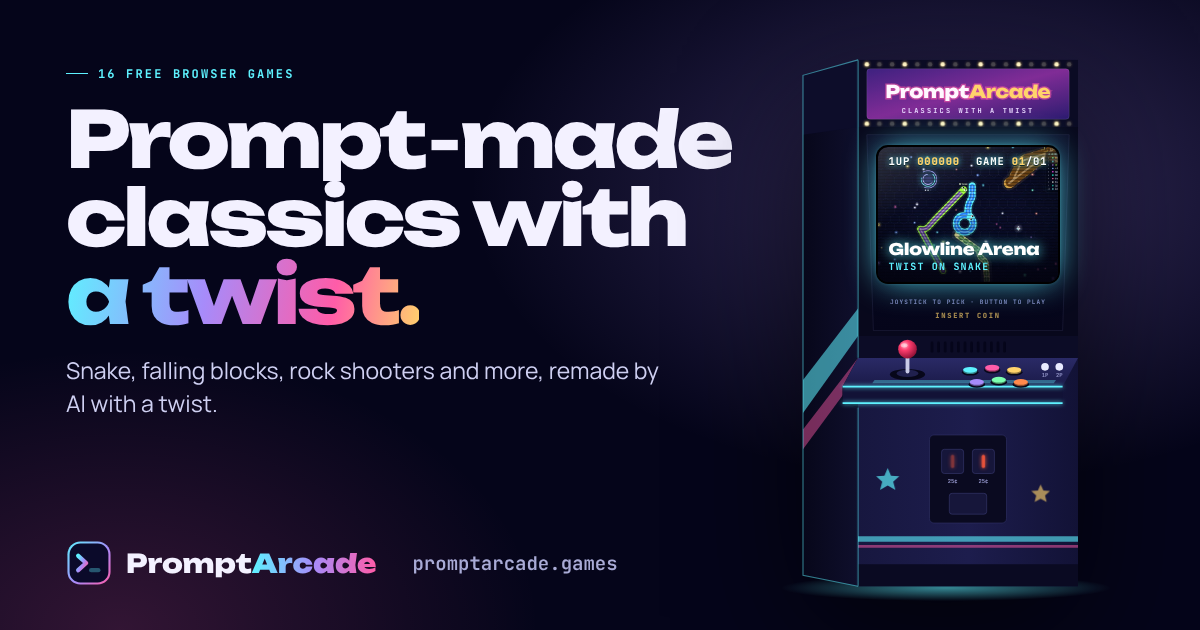
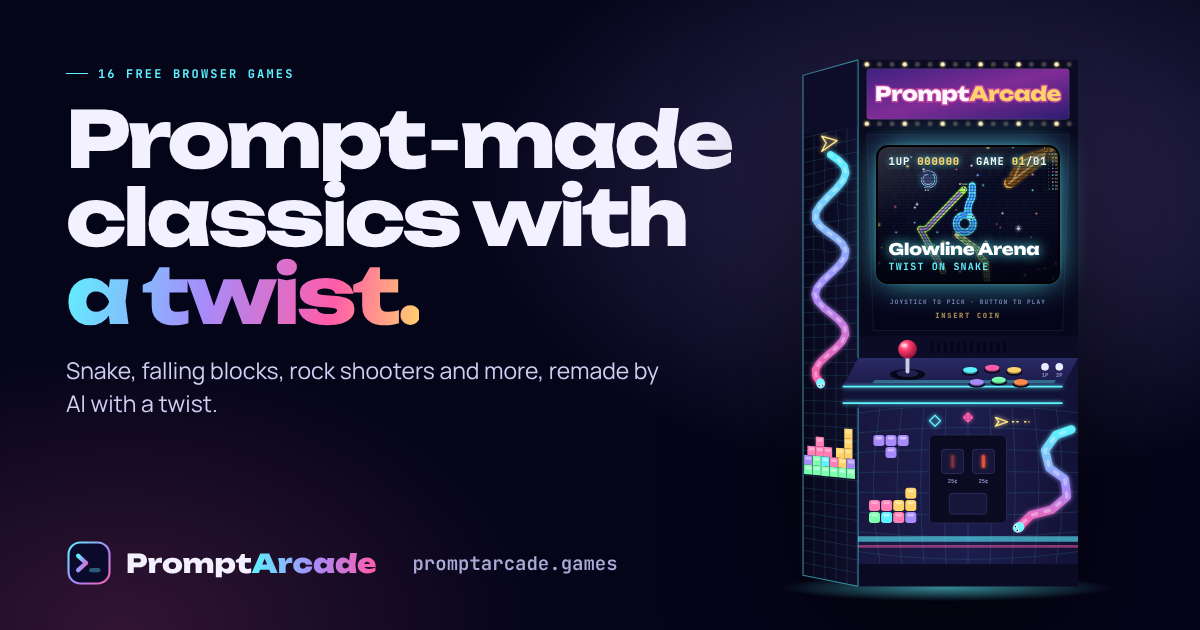
Cabinet: drop the marquee subtitle, add game art to the side and lower panel
Glowline Arena snakes, Block Bloom gems and Gridstorm's warped grid, ship and enemies.

Claude-Session: https://claude.ai/code/session_01ULzD1Fq67nhdKZeWie6Mtf

Changed region(s): [[0.6475, 0.2111, 0.7708, 0.8444], [0.7092, 0.1206, 0.8942, 0.181], [0.7708, 0.6333, 0.8942, 0.8444]]

diff --git a/src/assets/site.css b/src/assets/site.css
@@ -141,9 +141,11 @@ button{font:inherit;color:inherit}
 .cab-svg .acc-stop{stop-color:var(--a)}
 .cab-svg .scr-glow{fill:var(--a);opacity:.5;transition:fill .6s}
 .cab-svg .mq-panel{filter:brightness(1.05)}
-.cab-svg .mq-title{font:800 32px var(--display);letter-spacing:-.5px;fill:#fff7ff;paint-order:stroke;stroke:rgba(255,92,168,.55);stroke-width:5px}
+.cab-svg .mq-title{font:800 36px var(--display);letter-spacing:-.5px;fill:#fff7ff;paint-order:stroke;stroke:rgba(255,92,168,.55);stroke-width:5px}
 .cab-svg .mq-arc{fill:var(--gold)}
-.cab-svg .mq-sub{font:700 12.5px var(--mono);letter-spacing:4px;fill:#e9d8ff}
+.cab-svg .art-grid{stroke:var(--a);opacity:.22;transition:stroke .6s}
+.cab-svg .snake-stripes{animation:snake-run 1.6s linear infinite}
+@keyframes snake-run{to{stroke-dashoffset:-40}}
 .cab-svg .bz-text{font:700 11px var(--mono);letter-spacing:2px;fill:#7d80b8}
 .cab-svg .bz-coin{font:800 13px var(--mono);letter-spacing:3px;fill:var(--gold);animation:blink 1.2s steps(2) infinite}
 .cab-svg .coin-slot{fill:#ff5a3c;filter:drop-shadow(0 0 4px #ff5a3c);animation:coin 2.4s ease-in-out infinite}
@@ -187,7 +189,7 @@ button{font:inherit;color:inherit}
 .cab-right{left:39.5%;top:52%;width:8.5%;height:9%}
 .cab-play{left:57%;top:56%;width:22%;height:5.8%}
 .cab-screen a{cursor:pointer}
-@media (prefers-reduced-motion:reduce){.cab,.cab-slide.on img,.cab-svg .bulb,.cab-svg .bz-coin,.cab-svg .coin-slot{animation:none}}
+@media (prefers-reduced-motion:reduce){.cab,.cab-slide.on img,.cab-svg .snake-stripes,.cab-svg .bulb,.cab-svg .bz-coin,.cab-svg .coin-slot{animation:none}}
 
 /* ---------- classic / original labels ---------- */
 .card-kind{font:700 11px/1.2 var(--mono);letter-spacing:.14em;text-transform:uppercase;color:var(--a)}
